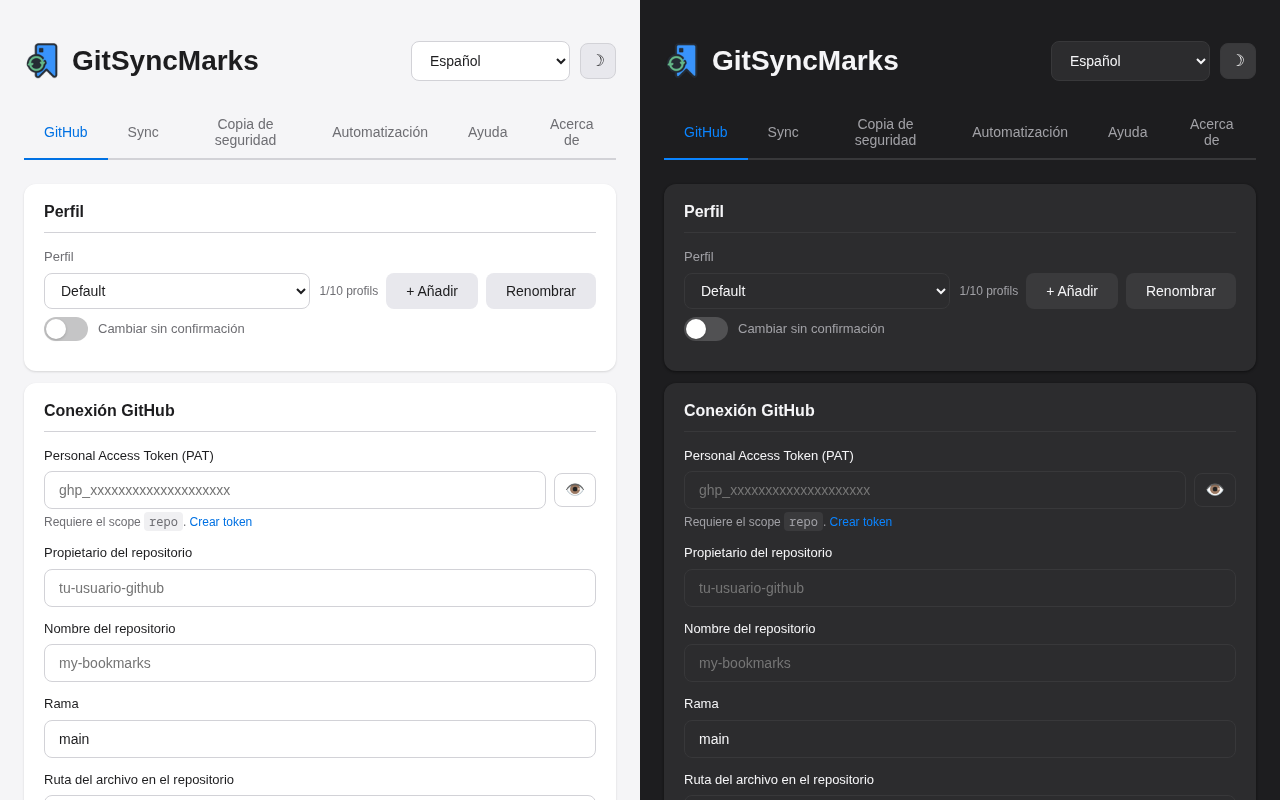
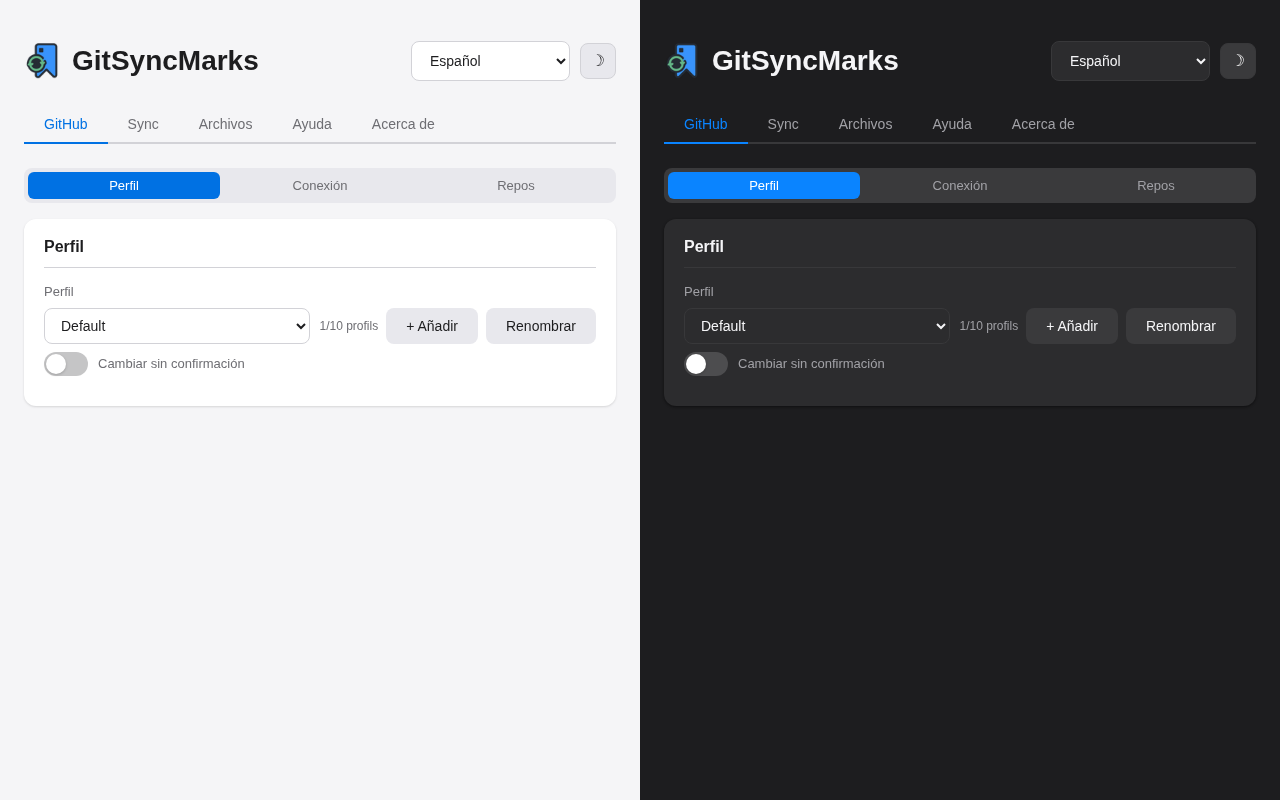
refactor: update README layout and remove obsolete images
- Updated the README.md to reflect changes in the tab structure, renaming and reorganizing image references for clarity.
- Removed outdated image files related to synchronization, backup, automation, help, and about sections across multiple languages.
- Ensured consistency in image naming and alignment with the new UI design.

diff --git a/README.md b/README.md
@@ -21,16 +21,14 @@
 
 <table align="center">
 <tr>
-<td align="center"><img src="store-assets/en/chrome-7-popup.png" width="220" alt="Popup" /><br><sub>1. Popup</sub></td>
-<td align="center"><img src="store-assets/en/chrome-1-github.png" width="220" alt="GitHub" /><br><sub>2. GitHub</sub></td>
-<td align="center"><img src="store-assets/en/chrome-2-synchronization.png" width="220" alt="Sync" /><br><sub>3. Sync</sub></td>
-<td align="center"><img src="store-assets/en/chrome-3-backup.png" width="220" alt="Backup" /><br><sub>4. Backup</sub></td>
+<td align="center"><img src="store-assets/en/chrome-1-github.png" width="220" alt="GitHub (Profile)" /><br><sub>1. GitHub</sub></td>
+<td align="center"><img src="store-assets/en/chrome-2-connection.png" width="220" alt="GitHub (Connection)" /><br><sub>2. Connection</sub></td>
+<td align="center"><img src="store-assets/en/chrome-3-sync.png" width="220" alt="Sync" /><br><sub>3. Sync</sub></td>
 </tr>
 <tr>
-<td align="center"><img src="store-assets/en/chrome-4-automation.png" width="220" alt="Automation" /><br><sub>5. Automation</sub></td>
-<td align="center"><img src="store-assets/en/chrome-5-help.png" width="220" alt="Help" /><br><sub>6. Help</sub></td>
-<td align="center"><img src="store-assets/en/chrome-6-about.png" width="220" alt="About" /><br><sub>7. About</sub></td>
-<td align="center"></td>
+<td align="center"><img src="store-assets/en/chrome-4-files.png" width="220" alt="Files (Generated)" /><br><sub>4. Files</sub></td>
+<td align="center"><img src="store-assets/en/chrome-5-export-import.png" width="220" alt="Files (Export / Import)" /><br><sub>5. Export / Import</sub></td>
+<td align="center"><img src="store-assets/en/chrome-6-popup.png" width="220" alt="Popup" /><br><sub>6. Popup</sub></td>
 </tr>
 </table>
 
